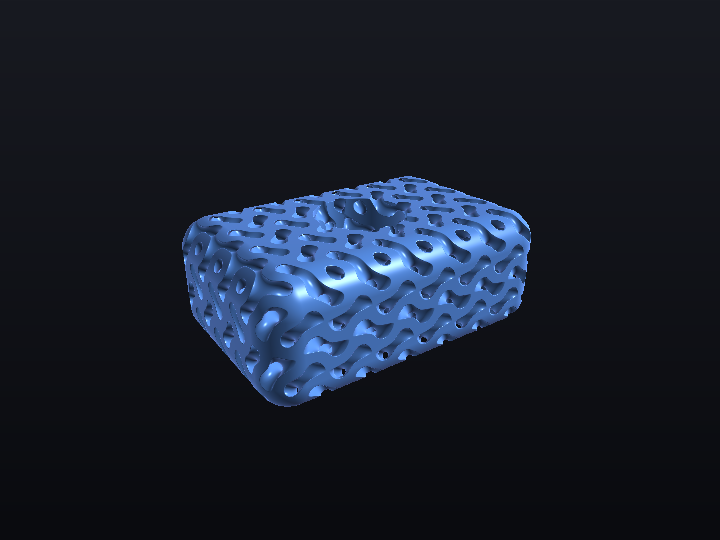
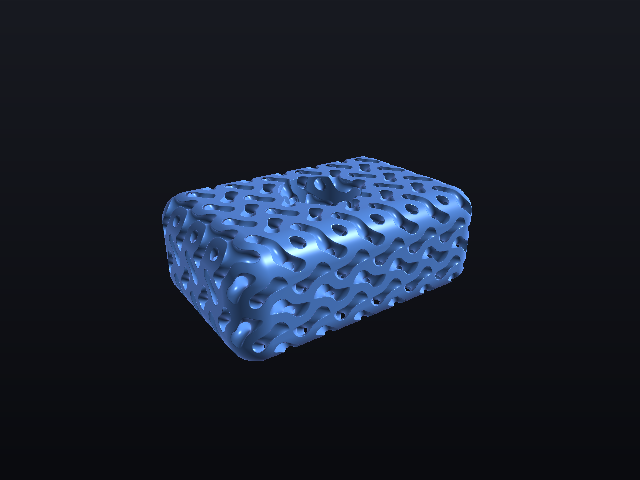
README for public release: kokopelli/nTopology lineage, install guide, fresh screenshots
- Rewrite README: f-rep lineage (kokopelli → Antimony → libfive, nTopology),
  install + quickstart, editor guide, vars/expressions, full REST route table,
  prior-art credits
- Regenerate docs images from the current UI (node-graph editor, CW&T design
  system) via a scratch instance — live document untouched
- Add web/fonts/OFL.txt (SIL OFL 1.1 for vendored Space Mono)

Claude-Session: https://claude.ai/code/session_01Rr1MdKQWer2fEH3hZZbiPF

diff --git a/README.md b/README.md
@@ -1,25 +1,42 @@
 # cadgang
 
-A web-based implicit modeling CAD tool in the spirit of [nTopology](https://www.ntop.com/), with a built-in **MCP server** so Claude Code can drive it end-to-end: build models, inspect geometry, render previews, and export STLs.
+Block-based **implicit modeling CAD** that runs in your browser — with a REST API, live WebSocket updates, and a built-in **MCP server** so Claude Code can drive it end-to-end: build models, inspect geometry, render previews, and export STLs.
 
 ![cadgang UI](docs/screenshot-ui.png)
 
-Models are **graphs of blocks** evaluated as signed distance fields (SDFs) — the same representation nTopology uses. Because geometry is a function, not a mesh, booleans never fail, shells are exact, and lattices are free.
+cadgang sits in the lineage of functional-representation CAD: [kokopelli](https://github.com/mkeeter/kokopelli), Matt Keeter's Python-scripted f-rep CAD/CAM tool (and its successors [Antimony](https://github.com/mkeeter/antimony) and [libfive](https://libfive.com)), and the implicit-modeling approach [nTopology](https://www.ntop.com/) built a company on. Where kokopelli describes models as code and nTop as a graph of implicit operations, cadgang does both: models are **graphs of blocks** evaluated as signed distance fields (SDFs), and every graph compiles down to a one-line functional formula (shown live in the footer). Because geometry is a function, not a boundary mesh, booleans never fail, shells and offsets are exact, and TPMS lattices are a single block.
 
 | Raymarched preview | Gyroid lattice infill |
 |---|---|
 | ![part](docs/preview-part.png) | ![gyroid](docs/preview-gyroid.png) |
 
-## Quickstart
+## Install
+
+Requires [Node.js](https://nodejs.org) ≥ 18 and a modern browser. No build step — the web app is plain ES modules.
 
 ```bash
+git clone https://github.com/cheewee2000/cadgang.git
+cd cadgang
 npm install
 npm start          # → http://localhost:4477
-npm run demo       # builds a gyroid-filled demo part via the API
-npm test           # kernel unit tests
 ```
 
-Open http://localhost:4477 — the viewport live-updates (WebSocket) whenever the model changes, whether from the UI, the REST API, or Claude via MCP.
+Then:
+
+```bash
+npm run demo       # builds a gyroid-filled demo part via the REST API
+npm test           # 80 kernel/API unit tests
+```
+
+Open http://localhost:4477 — the viewport live-updates (WebSocket) whenever the model changes, whether from the UI, the REST API, or Claude via MCP. The model autosaves to `data/document.json`, so state survives restarts and the UI and MCP always share one model. `CADGANG_PORT` and `CADGANG_DOC` select an alternate port/document for scratch instances.
+
+## The editor
+
+- **Double-click** the graph to add a block, **drag** between ports to wire, **drag** blocks to move, right-drag to pan, scroll to zoom, marquee-drag to multi-select, **⌘C/⌘V** copy/paste, **⌘Z** undo, **Arrange** for a tidy dependency layout
+- **VARS bar** — define named variables (`w = 60`); any numeric param accepts an expression (`w/2 + 3`) that re-evaluates when the variable changes
+- **STACK / SIDE** toggles the graph/viewport split between stacked and side-by-side; **DARK** toggles the theme; **COLOR** switches per-part color vs. stainless render
+- **Save / Open** stores named models server-side (`saves/`)
+- Click the footer formula to see the whole model as a nested functional expression
 
 ## Claude Code integration (MCP)
 
@@ -74,14 +91,16 @@ Upload a `.step`/`.stp` (or IGES/BREP) file — **Import STEP** in the web UI, `
 | `GET /api/document` | Model graph + revision |
 | `POST /api/nodes` · `PATCH /api/nodes/:id` · `DELETE /api/nodes/:id` | Graph editing |
 | `POST /api/document/output` | Set output block |
+| `POST /api/vars` · `DELETE /api/vars/:name` | User variables (usable in param expressions) |
 | `POST /api/eval` | Evaluate SDF at points |
 | `POST /api/undo` · `POST /api/redo` | Step the edit history (last 100 steps) |
+| `GET /api/files` · `POST /api/files/save` · `POST /api/files/load` · `DELETE /api/files/:name` | Named model save/open |
 | `POST /api/import/step?name=file.step` | Import STEP/IGES/BREP (raw body) → asset + `imported_mesh` node (`&node=id` attaches to an existing block instead) |
 | `GET /api/assets` · `GET /api/assets/:id` · `DELETE /api/assets/:id` | Imported mesh assets (`:id` returns full triangles + per-face ranges) |
 | `GET /api/mesh?resolution=90` | Surface-nets mesh (JSON) |
 | `GET /api/mesh/stats` | Stats only |
 | `GET /api/export/stl?resolution=128&file=name` | Binary STL |
-| `GET /api/preview.png?yaw=-35&pitch=25` | Raymarched preview |
+| `GET /api/preview.png?yaw=-35&pitch=25&node=id` | Raymarched preview (any block, not just the output) |
 
 `ws://…/ws` broadcasts `{type: "document_changed", revision}` on every edit.
 
@@ -90,24 +109,22 @@ Upload a `.step`/`.stp` (or IGES/BREP) file — **Import STEP** in the web UI, `
 ```
 src/core/     geometry kernel — pure JS, no server dependency
   sdf.js        block registry, graph → SDF closure compiler, bbox propagation
+  expr.js       safe expression evaluator for variable-driven params
   mesher.js     naive surface-nets mesher (watertight, SDF-gradient normals)
+  mesh.js       mesh utilities: welding, BVH signed distance, per-face ranges
+  step.js       STEP/IGES/BREP tessellation (WASM OpenCascade)
   stl.js        binary STL writer
   render.js     CPU sphere-tracer + dependency-free PNG encoder
-  document.js   persistent model document (autosaved to data/document.json)
+  document.js   persistent model document, undo history, autosave
 src/server/   Express REST API + WebSocket + static hosting
 src/mcp/      cadgang-mcp-server (stdio, @modelcontextprotocol/sdk)
-web/          Three.js viewport + block/param editor (no build step)
+web/          Three.js viewport + node-graph editor (no build step, no framework)
 ```
 
-The model document is autosaved to `data/document.json`, so the UI and MCP always share one model and state survives restarts.
+## Prior art & credits
 
-## Pushing this repo to GitHub
+- [kokopelli](https://github.com/mkeeter/kokopelli) → [Antimony](https://github.com/mkeeter/antimony) → [libfive](https://libfive.com) — Matt Keeter's f-rep CAD tools, the reason this way of thinking about geometry exists in open source
+- [nTopology](https://www.ntop.com/) — implicit modeling at industrial scale; the gyroid-infill demo is their party trick
+- [three.js](https://threejs.org) (MIT, vendored in `web/vendor/`) · [occt-import-js](https://github.com/kovacsv/occt-import-js) (OpenCascade WASM) · [Space Mono](https://fonts.google.com/specimen/Space+Mono) (SIL OFL 1.1, license in `web/fonts/OFL.txt`)
 
-The repo is local. To publish it as a private GitHub repo:
-
-```bash
-gh repo create cadgang --private --source . --push
-# or manually:
-git remote add origin git@github.com:<you>/cadgang.git
-git push -u origin main
-```
+Built by [CW&T](https://cwandt.com) with Claude Code.
